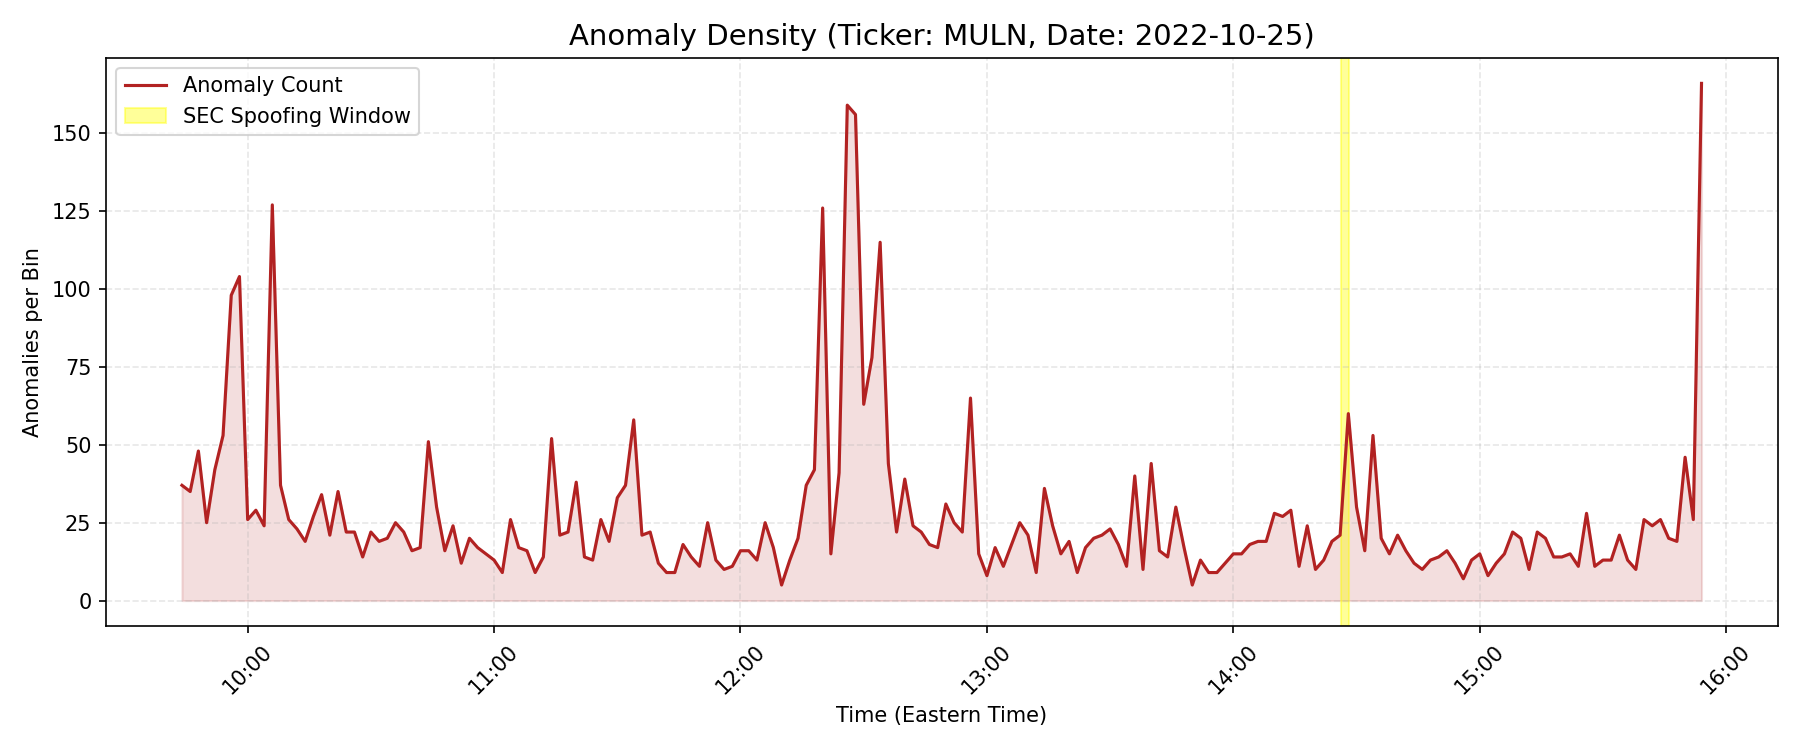
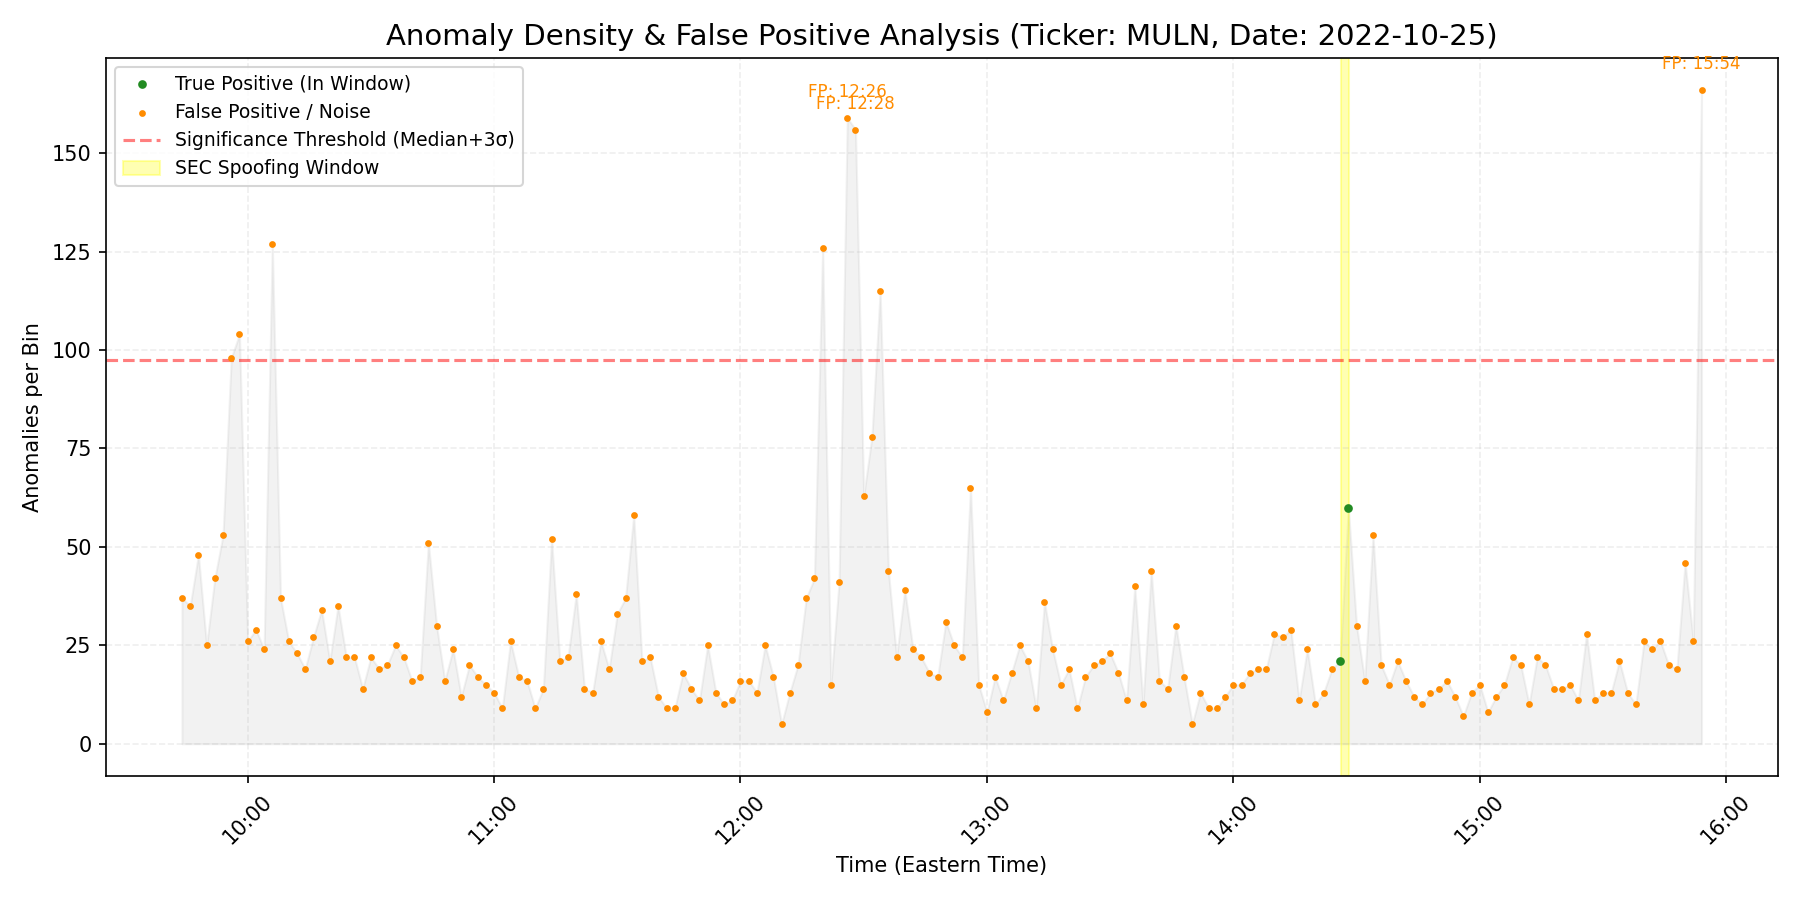
Improvede plots

diff --git a/scripts/quantify_anomalies.py b/scripts/quantify_anomalies.py
@@ -44,33 +44,55 @@ def main():
     # CRITICAL: Convert index to naive local time for plotting to fix alignment
     density.index = density.index.tz_localize(None)
 
-    # 3. Plotting (Single Plot)
-    plt.figure(figsize=(12, 5))
-    plt.plot(density.index, density['anomalies'], color='firebrick', lw=1.5, label='Anomaly Count')
-    plt.fill_between(density.index, density['anomalies'], color='firebrick', alpha=0.15)
+    # 3. Plotting (Enhanced for False Positive Analysis)
+    plt.figure(figsize=(12, 6))
     
-    # Highlight the SEC Window: 14:26:10 - 14:28:10 ET
+    # Calculate a baseline threshold for "significant" noise
+    # (Median + 3*Std of the intraday activity)
+    threshold_val = density['anomalies'].median() + 3 * density['anomalies'].std()
+    
+    # Split data for color coding
     if args.target_date:
         target_dt = pd.to_datetime(args.target_date).date()
         win_start = pd.Timestamp.combine(target_dt, datetime.strptime("14:26:10", "%H:%M:%S").time())
         win_end = pd.Timestamp.combine(target_dt, datetime.strptime("14:28:10", "%H:%M:%S").time())
         
-        plt.axvspan(win_start, win_end, color='yellow', alpha=0.4, label='SEC Spoofing Window')
+        in_window_mask = (density.index >= (win_start - pd.Timedelta(bin_freq))) & (density.index <= win_end)
+        
+        # Plot True Positives (Green) and False Positives (Orange)
+        plt.scatter(density.index[in_window_mask], density['anomalies'][in_window_mask], 
+                    color='forestgreen', s=10, zorder=5, label='True Positive (In Window)')
+        plt.scatter(density.index[~in_window_mask], density['anomalies'][~in_window_mask], 
+                    color='darkorange', s=5, zorder=4, label='False Positive / Noise')
+    else:
+        plt.scatter(density.index, density['anomalies'], color='firebrick', s=5)
+
+    plt.fill_between(density.index, density['anomalies'], color='gray', alpha=0.1)
+    plt.axhline(threshold_val, color='red', linestyle='--', alpha=0.5, label='Significance Threshold (Median+3σ)')
+
+    # Highlight the SEC Window
+    if args.target_date:
+        plt.axvspan(win_start, win_end, color='yellow', alpha=0.3, label='SEC Spoofing Window')
     
-    plt.title(f"Anomaly Density (Ticker: MULN, Date: {args.target_date})", fontsize=14)
+    # Annotate Top 3 False Positives
+    if args.target_date:
+        top_fps = density[~in_window_mask].sort_values('anomalies', ascending=False).head(3)
+        for idx, row in top_fps.iterrows():
+            plt.annotate(f"FP: {idx.strftime('%H:%M')}", (idx, row['anomalies']), 
+                         textcoords="offset points", xytext=(0,10), ha='center', fontsize=8, color='darkorange')
+
+    plt.title(f"Anomaly Density & False Positive Analysis (Ticker: MULN, Date: {args.target_date})", fontsize=14)
     plt.ylabel("Anomalies per Bin")
     plt.xlabel("Time (Eastern Time)")
     
-    # Standardize X-Axis: HH:MM with 45 deg tilt
     plt.gca().xaxis.set_major_formatter(mdates.DateFormatter('%H:%M'))
     plt.xticks(rotation=45)
-    
-    plt.legend(loc='upper left')
-    plt.grid(alpha=0.3, linestyle='--')
+    plt.legend(loc='upper left', fontsize=9)
+    plt.grid(alpha=0.2, linestyle='--')
     plt.tight_layout()
     
     plt.savefig(args.output, dpi=150)
-    print(f"Clean density plot saved to {args.output}")
+    print(f"Enhanced density plot saved to {args.output}")
 
     # 4. Statistical Summary (Local Date only)
     if args.target_date:
